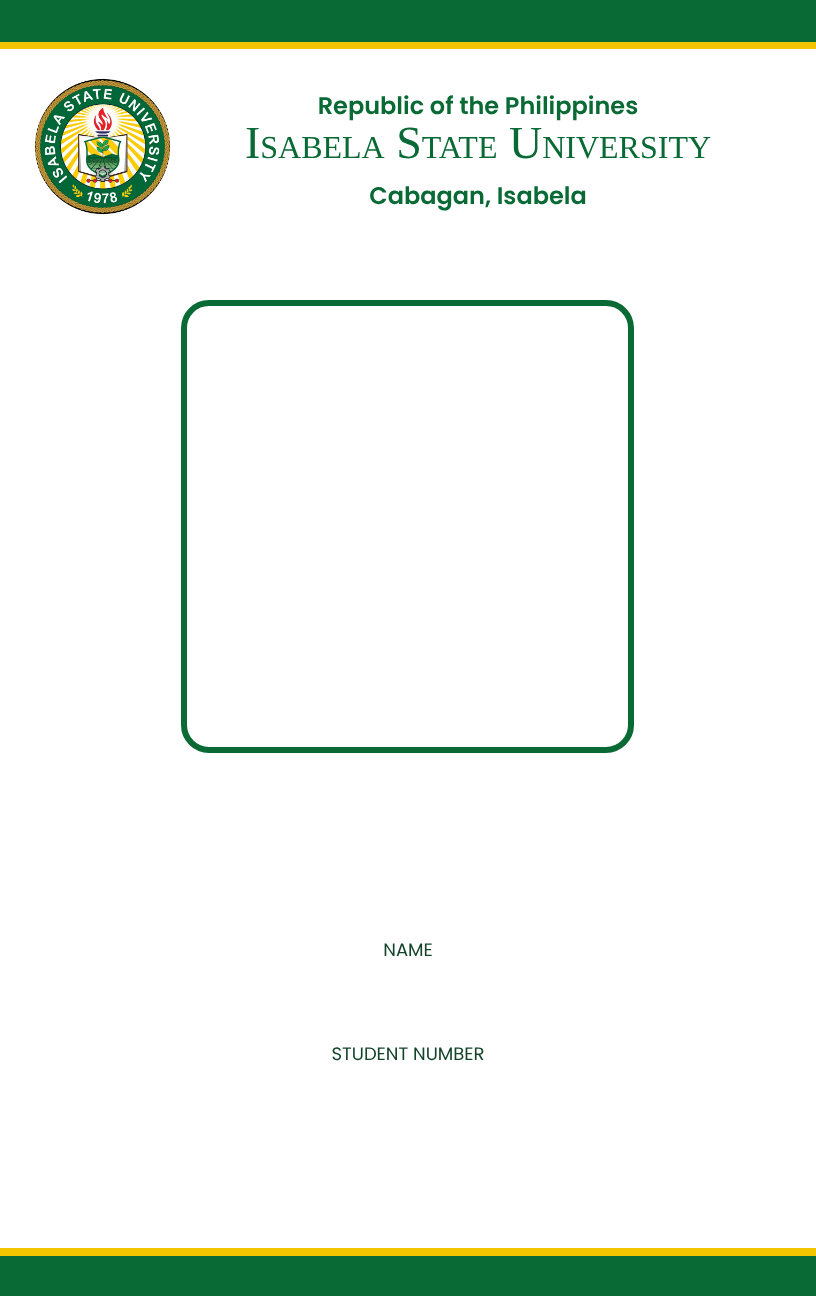
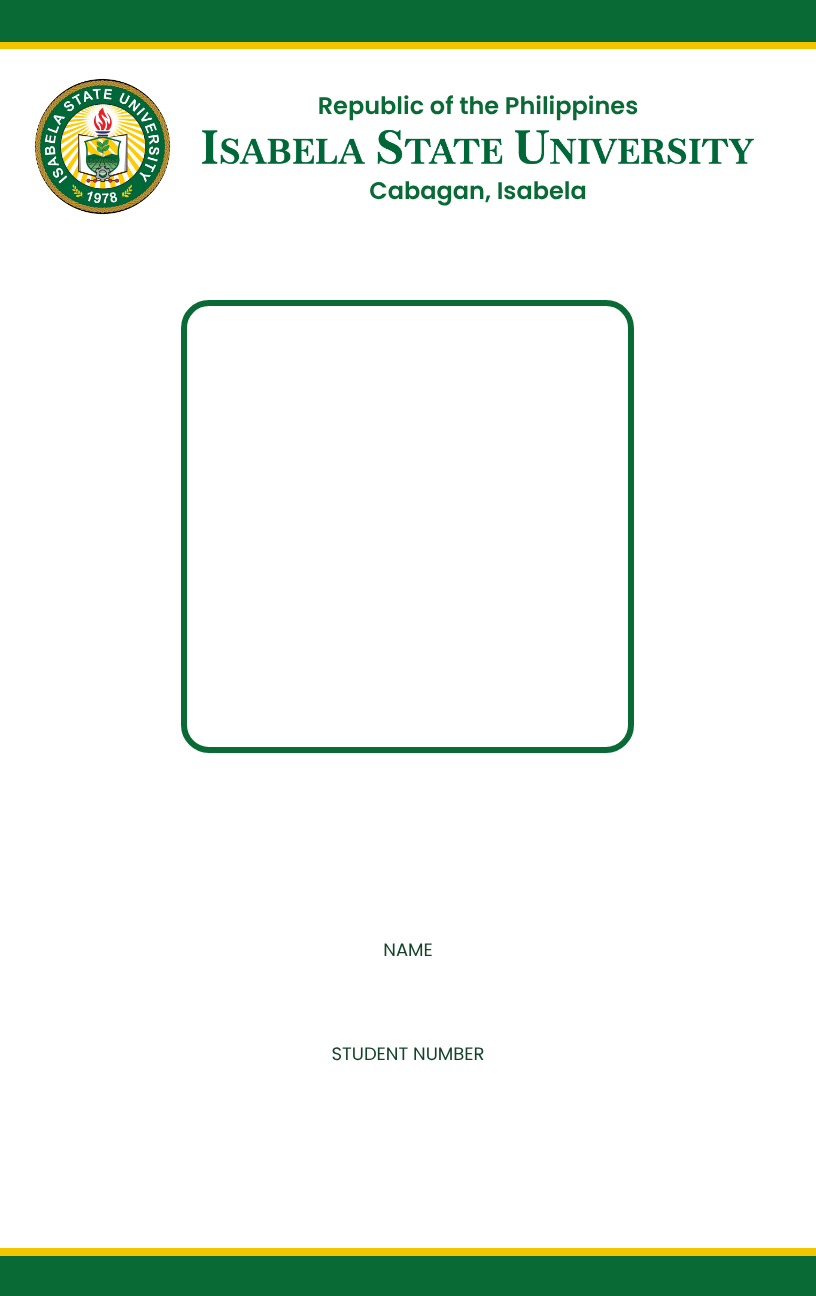
feat: update CR80 ID to the adjusted template layout
Front (from the updated ISU Student ID – CR80 Template):
- University name is now the wordmark image instead of text
- "Cabagan, Isabela" moved up (y 178 -> 173)
- Photo frame shows the template's silhouette placeholder until a photo
  is added (HTML preview and export canvas)

Fixes:
- Hide the signature <img> when empty: the global `img {display:block}`
  overrode [hidden] and showed a broken-image icon with alt text
- Reset inherited line-height/text-rendering inside the card so text
  matches the template exactly (was 1px off)
- Canvas text lines snap to whole pixels like the browser

Rebuilt the blank front export template and the hero reference images
(smaller, 520px wide). Back layout is unchanged in the new template.
Bump SW cache to v3.8.6.

Claude-Session: https://claude.ai/code/session_01AYJRir7nrSMsoGh9XVKpAJ

Changed region(s): [[0.2451, 0.0926, 0.9191, 0.1852]]

diff --git a/web/app.js b/web/app.js
@@ -117,7 +117,7 @@ const CONFIG = {
  * Front: 816 × 1296 px   Back: 816 × 1296 px   (CR80 = 54 × 85.6 mm, 384 dpi)
  *
  * All coordinates are native canvas pixels, taken from the CR80 design:
- *   - new_template_front.id.png  (blank CR80 front — labels, seal, photo frame)
+ *   - new_template_front.id.png  (blank CR80 front — labels, seal, university wordmark, photo frame)
  *   - new_template_back.id.png   (blank CR80 back  — labels, QR, registrar block)
  *   - front_reference.png / back_reference.png (filled references rendered by this app)
  *
@@ -125,6 +125,7 @@ const CONFIG = {
  * ─────
  *  Photo frame outer: left=181 top=300 size=453×453 (6px green border, 28px radius)
  *  Photo FILL area (inside the border): x=187 y=306 w=441 h=441, radius 22
+ *    (until a photo is added, cr80_photo_placeholder.png — the template's silhouette — fills it)
  *  Signature: sits in the free band between the photo frame and the name
  *  NAME value:           top=880  font 41px Poppins Bold      → text centre y = 907
  *  STUDENT NUMBER value: top=984  font 41px Poppins Bold      → text centre y = 1011
@@ -277,6 +278,7 @@ const state = {
     frontTemplate:     null,
     backTemplate:      null,
     front2026Template: null,
+    photoPlaceholder2026: null,   // silhouette shown in the 2026 photo frame until a photo is added
     back2026Template:  null,
     activeStudentIndex: 0,
     idVersion: '2026',  // 'old' | '2026'  (CR80 2026 design is the default)
@@ -593,11 +595,12 @@ function loadPoppinsFonts() {
 }
 
 async function loadTemplates() {
-    const [front, back, front2026, back2026] = await Promise.all([
+    const [front, back, front2026, back2026, photoPlaceholder2026] = await Promise.all([
         loadImage('images/template_front.id.png'),
         loadImage('images/template_back.id.png'),
-        loadImage('images/2026_id/new_template_front.id.png?v=cr80'),
+        loadImage('images/2026_id/new_template_front.id.png?v=cr80c'),
         loadImage('images/2026_id/new_template_back.id.png?v=cr80b'),
+        loadImage('images/2026_id/cr80_photo_placeholder.png'),
         // CR80 design uses Poppins on the canvas — make sure it is loaded before first draw
         loadPoppinsFonts()
     ]);
@@ -606,6 +609,7 @@ async function loadTemplates() {
     state.backTemplate      = back;
     state.front2026Template = front2026;
     state.back2026Template  = back2026;
+    state.photoPlaceholder2026 = photoPlaceholder2026;
 
     // Set canvas intrinsic sizes from the loaded images (use old template as default)
     frontCanvas.width  = front ? front.width  : 638;
@@ -757,8 +761,10 @@ function renderCanvases() {
             frontCtx.drawImage(frontTpl, 0, 0, frontCanvas.width, frontCanvas.height);
         }
 
-        // 3. Draw photo ON TOP (clipped perfectly inside the frame)
-        if (student.photoImage) {
+        // 3. Draw photo ON TOP (clipped perfectly inside the frame).
+        //    No photo yet → the template's silhouette placeholder, like the HTML preview.
+        const photoImg2026 = student.photoImage || state.photoPlaceholder2026;
+        if (photoImg2026) {
             const { x, y, width, height, borderRadius: r = 18 } = cfg.photo;
             frontCtx.save();
             frontCtx.beginPath();
@@ -774,13 +780,13 @@ function renderCanvases() {
             frontCtx.closePath();
             frontCtx.clip();
 
-            const imgRatio = student.photoImage.width / student.photoImage.height;
+            const imgRatio = photoImg2026.width / photoImg2026.height;
             const boxRatio = width / height;
             let dw = width, dh = height, dx = x, dy = y;
             if (imgRatio > boxRatio) { dw = height * imgRatio; dx = x - (dw - width) / 2; }
             else                    { dh = width / imgRatio;   dy = y - (dh - height) / 2; }
 
-            frontCtx.drawImage(student.photoImage, dx, dy, dw, dh);
+            frontCtx.drawImage(photoImg2026, dx, dy, dw, dh);
             frontCtx.restore();
         }
 
@@ -982,7 +988,9 @@ function renderText2026(ctx, textConfig, textValue) {
     const startY      = textConfig.y - totalHeight / 2;
 
     lines.forEach((line, i) => {
-        const y = startY + i * lineHeight;
+        // Snap each line to a whole pixel (floor, like browsers do for line boxes) so the
+        // export matches the HTML card's crisp glyph edges
+        const y = Math.floor(startY + i * lineHeight);
         if (textConfig.maxWidth) {
             ctx.fillText(line, textConfig.x, y, textConfig.maxWidth);
         } else {
@@ -1003,6 +1011,9 @@ function renderText2026(ctx, textConfig, textValue) {
 
 /** Design-board width the CR80 faces are laid out on (px) */
 const CR80_BOARD_W = 816;
+
+/** Silhouette shown in the photo frame until the student's photo is added */
+const CR80_PHOTO_PLACEHOLDER = 'images/2026_id/cr80_photo_placeholder.png';
 
 /**
  * Shrink an element's font-size until it fits maxWidth (never below minPx).
@@ -1067,13 +1078,11 @@ function renderCr80Preview() {
     // ── Front ──
     const photo = $('cr80-photo');
     if (photo) {
-        if (student.photoDataUrl) {
-            if (photo.getAttribute('src') !== student.photoDataUrl) photo.src = student.photoDataUrl;
-            photo.hidden = false;
-        } else {
-            photo.removeAttribute('src');
-            photo.hidden = true;
-        }
+        // No photo yet → the template's silhouette placeholder (same as the export canvas)
+        const photoSrc = student.photoDataUrl || CR80_PHOTO_PLACEHOLDER;
+        if (photo.getAttribute('src') !== photoSrc) photo.src = photoSrc;
+        photo.alt = student.photoDataUrl ? 'Student photo' : 'Photo placeholder';
+        photo.hidden = false;
     }
     const sig = $('cr80-signature');
     if (sig) {

diff --git a/web/style.css b/web/style.css
@@ -5990,11 +5990,18 @@ a[aria-label="Email"]:hover {
     background: var(--cr80-white);
     color: var(--cr80-green);
     font-family: 'Poppins', Arial, sans-serif;
+    /* Reset what the page would inherit so the card matches the CR80 design exactly */
+    line-height: normal;
+    letter-spacing: normal;
+    text-rendering: auto;
+    font-feature-settings: normal;
     user-select: none;
 }
 
 .cr80-face > * { position: absolute; }
 .cr80-face span { white-space: pre; }
+/* The global `img { display: block }` reset would override the hidden attribute */
+.cr80-face img[hidden] { display: none; }
 
 .cr80-bar { left: 0; width: 816px; }
 .cr80-bar--top { top: 0; height: 42px; background: var(--cr80-green); }
@@ -6007,10 +6014,9 @@ a[aria-label="Email"]:hover {
     left: 198px; width: 560px; text-align: center; font-size: 24px; font-weight: 600;
 }
 .cr80-republic { top: 88px; }
-.cr80-campus { top: 178px; }
+.cr80-campus { top: 173px; }
 .cr80-university {
-    left: 198px; top: 116px; width: 560px; text-align: center;
-    font-family: Georgia, 'Times New Roman', serif; font-variant: small-caps; font-size: 46px;
+    left: 198px; top: 128px; width: 560px; height: 38px; object-fit: contain;
 }
 
 .cr80-photo-frame {

diff --git a/web/sw.js b/web/sw.js
@@ -1,14 +1,14 @@
 /**
  * ISU ID Generator — Service Worker (PWA Offline & Instant Load Cache)
- * Cache version: isu-id-v3.8.5
+ * Cache version: isu-id-v3.8.6
  */
 
-const CACHE_NAME = 'isu-id-v3.8.5';
+const CACHE_NAME = 'isu-id-v3.8.6';
 
 const PRECACHE_ASSETS = [
   './',
   './index.html',
-  './style.css?v=3.8.5',
+  './style.css?v=3.8.6',
   './app.js',
   './animations.js',
   './manifest.webmanifest',
@@ -18,9 +18,11 @@ const PRECACHE_ASSETS = [
   './images/template_back.id.png',
   './images/2026_id/front_reference.png',
   './images/2026_id/back_reference.png',
-  './images/2026_id/new_template_front.id.png?v=cr80',
+  './images/2026_id/new_template_front.id.png?v=cr80c',
   './images/2026_id/new_template_back.id.png?v=cr80b',
   './images/2026_id/cr80_seal.png',
+  './images/2026_id/cr80_university_wordmark.png',
+  './images/2026_id/cr80_photo_placeholder.png',
   './images/2026_id/cr80_qr.png',
   './images/2026_id/cr80_registrar_signature.png',
   './fonts/poppins-latin-400.woff2',

diff --git a/web/index.html b/web/index.html
@@ -54,7 +54,7 @@
 
 
 
-    <link rel="stylesheet" href="style.css?v=3.8.5">
+    <link rel="stylesheet" href="style.css?v=3.8.6">
 </head>
 
 
@@ -934,7 +934,7 @@
                                     <div class="cr80-bar cr80-bar--top-gold"></div>
                                     <img class="cr80-seal" src="images/2026_id/cr80_seal.png" alt="Isabela State University seal">
                                     <div class="cr80-republic">Republic of the Philippines</div>
-                                    <div class="cr80-university">Isabela State University</div>
+                                    <img class="cr80-university" src="images/2026_id/cr80_university_wordmark.png" alt="Isabela State University">
                                     <div class="cr80-campus">Cabagan, Isabela</div>
                                     <div class="cr80-photo-frame">
                                         <img class="cr80-photo" id="cr80-photo" alt="Student photo" hidden>
